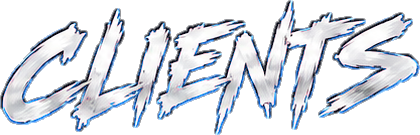
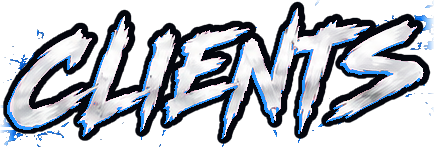
fix(clients): CLIENTS title scale + Calendar-style outline
Title artwork enlarged to match CALENDAR's visual letter height with the
same controlled break-out of the header bar; crown and tagline re-seated.
Artwork edge rebuilt to CALENDAR's construction: solid near-black outline,
offset coloured edge (Clients blue) and the lettering's own paint flecks.
Title only; nothing else changed.

diff --git a/src/app/dashboard/barber/clients/client-directory.tsx b/src/app/dashboard/barber/clients/client-directory.tsx
@@ -193,25 +193,23 @@ export function ClientDirectory({ clients }: { clients: Client[] }) {
 
       {/* Desktop — Clients on the POLAR master stage (native 1672 × 941 px). */}
       <PolarStage id="clients" chromeSrc="/dashboard/polar-ui/clients-chrome.webp" room={<BarberRoom decorative />} className={ui.className}>
-        {/* Header: icon, title, tagline, crown — inside the master header bar. */}
-        <div className="absolute flex items-center gap-5" style={{ left: 146, top: 113, height: 86 }}>
+        {/* Header — matched to Calendar's title geometry (master px): letter body
+            86px tall at y 93–179, spikes breaking above the header bar (to y≈76)
+            and down across the tagline, crown in Calendar's crown position. */}
+        <div className="absolute" style={{ left: 146, top: 119 }}>
           <PeopleGlyph />
-          <div>
-            <div className="flex items-start gap-2">
-              {/* Official POLAR display lettering (design-masters/polar-display-alphabet.png), blue edge. */}
-              <h1 className="relative">
-                <span className="sr-only">Clients</span>
-                {/* eslint-disable-next-line @next/next/no-img-element */}
-                <img src="/dashboard/polar-ui/clients-title.webp" alt="" aria-hidden="true" width={202} height={65} className="block" />
-              </h1>
-              {/* eslint-disable-next-line @next/next/no-img-element */}
-              <img src="/dashboard/polar-ui/clients-crown.webp" alt="" aria-hidden="true" className="-mt-5" width={62} height={55} />
-            </div>
-            <p className="mt-0.5 whitespace-nowrap pl-1 text-[16px] font-semibold uppercase tracking-[0.36em]" style={{ color: CYAN.hex }}>
-              Real people. Real progress.
-            </p>
-          </div>
         </div>
+        {/* Official POLAR display lettering (design-masters/polar-display-alphabet.png), blue edge. */}
+        <p className="absolute whitespace-nowrap text-[16px] font-semibold uppercase tracking-[0.36em]" style={{ left: 272, top: 184, color: CYAN.hex }}>
+          Real people. Real progress.
+        </p>
+        <h1 className="absolute" style={{ left: 254, top: 78, width: 341, height: 116 }}>
+          <span className="sr-only">Clients</span>
+          {/* eslint-disable-next-line @next/next/no-img-element */}
+          <img src="/dashboard/polar-ui/clients-title.webp" alt="" aria-hidden="true" width={341} height={116} className="block" />
+        </h1>
+        {/* eslint-disable-next-line @next/next/no-img-element */}
+        <img src="/dashboard/polar-ui/clients-crown.webp" alt="" aria-hidden="true" className="absolute" style={{ left: 594, top: 112 }} width={70} height={62} />
 
         {/* Toolbar row (Calendar's toolbar line). */}
         <label className="absolute flex items-center gap-4 rounded-[10px] border-2 px-5" style={{ ...OUTLINE, left: 136, top: 227, width: 1162, height: 55, background: NAVY }}>
